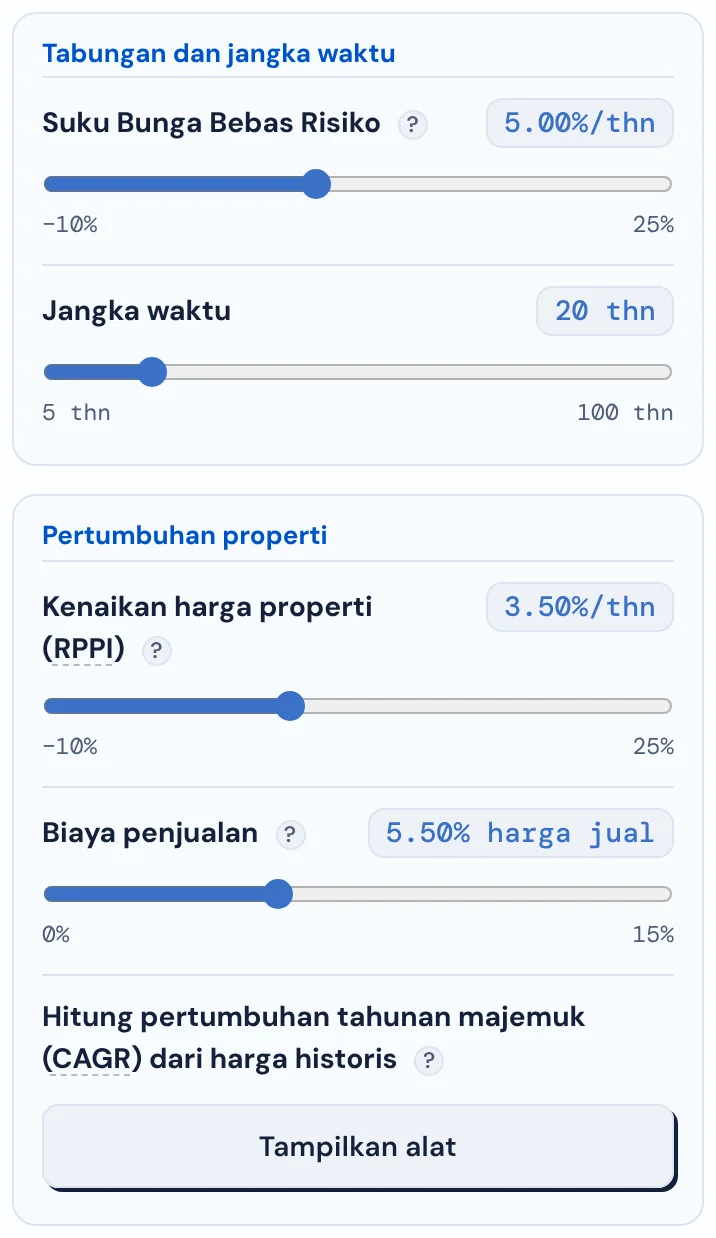
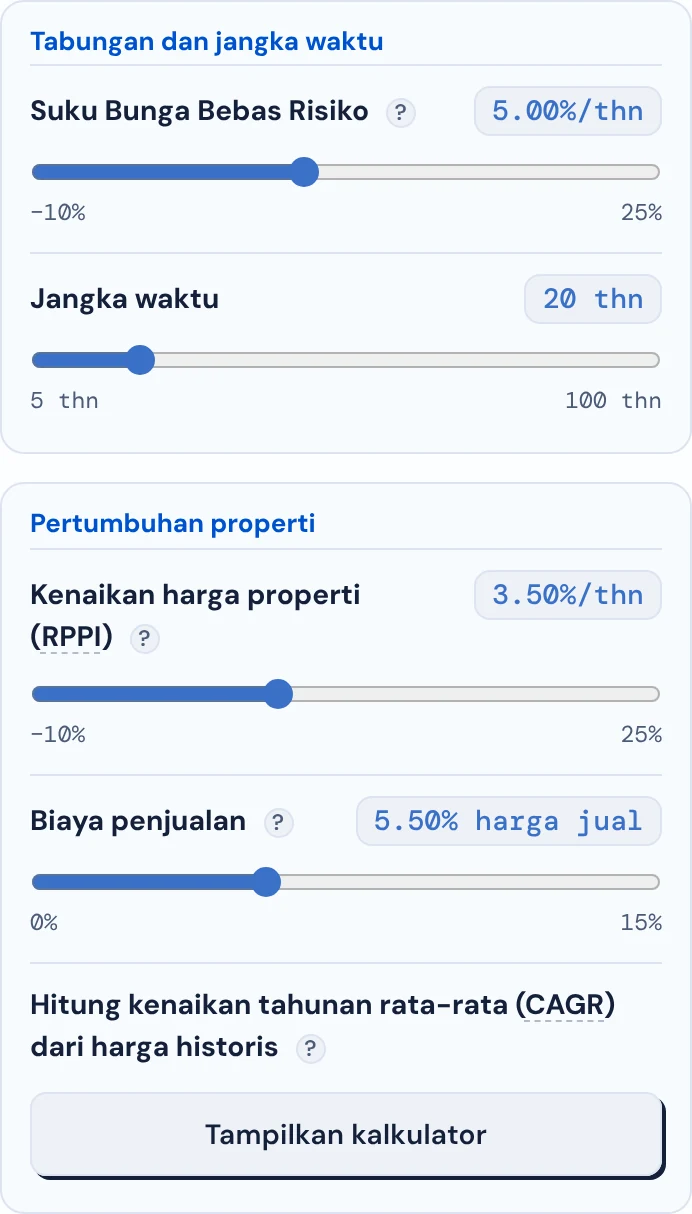
Sewa atau beli rumah: up-to-date Indonesian screenshots, Quick Start naming
Retake the six Indonesian screenshots from the current tool UI (Quick
Start label, Fixed/Floating rate types, reworded labels), fix their
width/height, and say Quick Start instead of Mulai Cepat in alt text
and the footnote.

Claude-Session: https://claude.ai/code/session_01YWcbh4keF1ebWnA5JbQRV3

Changed region(s): [[0.0, 0.3962, 1.0, 0.9753], [0.0, 0.0, 0.9711, 0.3657], [0.698, 0.4572, 0.9104, 0.5181]]

diff --git a/id/_posts/2026-10-17-sewa-atau-beli-rumah.md b/id/_posts/2026-10-17-sewa-atau-beli-rumah.md
@@ -113,12 +113,12 @@ Saya membuat tool ini sebagai ekonom berlatar perbankan, jadi ada tiga pintu mas
 3. Lihat kartu **Modal awal** dan **Anggaran perumahan bulanan**. Kalau gak cocok dengan hidupmu, sesuaikan **Uang Muka (DP)** sampai cocok.
 
 <figure>
-<img src="/assets/img/rvo-basic-quickstart-id.webp" alt="Tool Sewa vs Beli Rumah: Mulai Cepat diisi Perth dan rumah 2 kamar tidur, dengan Harga properti $855,000 dan Uang Muka 20% di tab Rumah" width="780" height="1202" loading="lazy" style="max-width:340px">
+<img src="/assets/img/rvo-basic-quickstart-id.webp" alt="Tool Sewa vs Beli Rumah: Quick Start diisi Perth dan rumah 2 kamar tidur, dengan Harga properti $855,000 dan Uang Muka 20% di tab Rumah" width="760" height="1208" loading="lazy" style="max-width:340px">
 <figcaption>Quick Start: Perth, rumah 2KT. Harga properti jadi titik awal. Biaya sewa ada di tab Sewa.</figcaption>
 </figure>
 
 <figure>
-<img src="/assets/img/rvo-basic-cards-id.webp" alt="Kesimpulan dan empat kartu ringkasan untuk Perth: Perbedaan kekayaan bersih +$850k, Tahun breakeven 5, Modal awal $210k, Anggaran perumahan bulanan $3k sampai $5k" width="1500" height="449" loading="lazy">
+<img src="/assets/img/rvo-basic-cards-id.webp" alt="Kesimpulan dan empat kartu ringkasan untuk Perth: Perbedaan kekayaan bersih +$850k, Tahun breakeven 5, Modal awal $210k, Anggaran perumahan bulanan $3k sampai $5k" width="1500" height="370" loading="lazy">
 <figcaption>Kartu di bawah kesimpulan. Perth butuh sekitar $210 ribu untuk mulai, dan anggaran bulanan $3 ribu sampai $5 ribu selama bertahun-tahun.</figcaption>
 </figure>
 
@@ -131,12 +131,12 @@ Buat yang mau lebih canggih, buka pengaturan yang paling menggeser jawaban.
 - **Suku Bunga Bebas Risiko.** Yang terpenting. Kalau kamu berani mengubahnya, berarti kamu gak lagi menaruh uang di celengan atau tabungan biasa. Anggap ini imbal hasil ke mana uang sisamu pergi: misalnya reksa dana indeks S&P 500 dengan ekspektasi imbal hasil jangka panjang 8%.
 
 <figure>
-<img src="/assets/img/rvo-expert-mortgage-id.webp" alt="Kelompok KPR mode Rinci untuk Jakarta: jangka waktu 20 tahun, bunga tetap 8,5% tahun 1 sampai 5, lalu mengambang 11% sampai 13%" width="716" height="1496" loading="lazy" style="max-width:320px">
+<img src="/assets/img/rvo-expert-mortgage-id.webp" alt="Kelompok KPR mode Rinci untuk Jakarta: jangka waktu 20 tahun, bunga fixed 8,5% tahun 1 sampai 5, lalu floating 11% sampai 13%" width="692" height="1472" loading="lazy" style="max-width:320px">
 <figcaption>Jadwal promo-lalu-floating untuk Jakarta, dimasukkan sebagai dua periode.</figcaption>
 </figure>
 
 <figure>
-<img src="/assets/img/rvo-expert-assumptions-id.webp" alt="Slider Tabungan dan jangka waktu (Suku Bunga Bebas Risiko, Jangka waktu) dan Pertumbuhan properti (kenaikan harga, biaya penjualan) untuk Jakarta" width="716" height="1198" loading="lazy" style="max-width:320px">
+<img src="/assets/img/rvo-expert-assumptions-id.webp" alt="Slider Tabungan dan jangka waktu (Suku Bunga Bebas Risiko, Jangka waktu) dan Pertumbuhan properti (kenaikan harga, biaya penjualan) untuk Jakarta" width="692" height="1214" loading="lazy" style="max-width:320px">
 <figcaption>Suku Bunga Bebas Risiko, jangka waktu, kenaikan harga, dan biaya penjualan, semuanya di tab Asumsi.</figcaption>
 </figure>
 
@@ -163,7 +163,7 @@ Suatu saat satu skenario gak cukup. Kamu ingin menaruh banyak hal berdampingan. 
 - **Suku bunga dan skema pembiayaan.** Rumah yang sama, pinjaman yang beda.
 
 <figure>
-<img src="/assets/img/rvo-sens-cities-top-id.webp" alt="Sensitivity Analysis tool dengan rumah 2 kamar tidur Perth dan Jakarta berdampingan: jangka waktu dan suku bunga bebas risiko bersama, multi-mata uang dan kurs" width="1500" height="659" loading="lazy">
+<img src="/assets/img/rvo-sens-cities-top-id.webp" alt="Sensitivity Analysis tool dengan rumah 2 kamar tidur Perth dan Jakarta berdampingan: jangka waktu dan suku bunga bebas risiko bersama, multi-mata uang dan kurs" width="1500" height="518" loading="lazy">
 <figcaption>Perth dan Jakarta berdampingan, dengan horizon 20 tahun yang sama.</figcaption>
 </figure>
 
@@ -177,7 +177,7 @@ Bacanya begini: bandingkan garis penuh dengan putus-putus *dalam satu warna*, bu
 Sekarang soal pembiayaan. Empat cara membeli rumah Jakarta yang sama, melawan satu garis sewa. Biru adalah KPR bertahap (8,5% selama 5 tahun, lalu floating). Oranye 8,5% datar selama 20 tahun. Hijau promo 3,81% selama 5 tahun, lalu floating. Merah muda tunai. Garis putus-putus adalah sewa.
 
 <figure>
-<img src="/assets/img/rvo-sens-financing-inputs-id.webp" alt="Empat skenario pembiayaan Jakarta: KPR bertahap, 8,5% tetap penuh, promo 3,81% lalu mengambang, dan beli tunai 100%" width="1500" height="428" loading="lazy">
+<img src="/assets/img/rvo-sens-financing-inputs-id.webp" alt="Empat skenario pembiayaan Jakarta: KPR bertahap, 8,5% tetap penuh, promo 3,81% lalu floating, dan beli tunai 100%" width="1500" height="471" loading="lazy">
 <figcaption>Empat skema pembiayaan untuk satu rumah di Jakarta, disusun sebagai empat kolom.</figcaption>
 </figure>
 
@@ -209,7 +209,7 @@ Jangan tanya "sewa atau beli, mana yang lebih pintar?" Tanyakan "rumah ini mengh
 
 *Tulisan ini informasi umum, bukan nasihat keuangan.*
 
-[^reiwa]: REIWA, profil kawasan Perth (median Landgate/REIWA, 12 bulan sampai September 2026), diringkas di [halaman asumsi Mulai Cepat](https://tool.adjiebrotots.com/rentvsownhouse/quickstart-assumptions/): sekitar 17% untuk rumah tapak dan 22% untuk unit.
+[^reiwa]: REIWA, profil kawasan Perth (median Landgate/REIWA, 12 bulan sampai September 2026), diringkas di [halaman asumsi Quick Start](https://tool.adjiebrotots.com/rentvsownhouse/quickstart-assumptions/): sekitar 17% untuk rumah tapak dan 22% untuk unit.
 [^abs]: Australian Bureau of Statistics, [Australia's population up 1.5% in December 2025](https://www.abs.gov.au/media-centre/media-releases/australias-population-15-december-2025): +412.500 orang, migrasi bersih luar negeri 301.000, pertambahan alami 111.500, Australia Barat tercepat 2,2%.
 [^bps]: BPS, [siaran pers SUPAS 2025](https://www.bps.go.id/en/pressrelease/2026/05/05/2645/supas-2025--angka-kelahiran-total--tfr--sebesar-2-13---angka-kematian-bayi--imr--sebesar-14-12--dan-persentase-lansia-mencapai-11-97-persen-.html), 5 Mei 2026: angka kelahiran total 2,13.
 [^idprice]: Colliers, lewat [Kompas, April 2026](https://www.kompas.com/properti/read/2026/04/13/210000021/kredit-apartemen-makin-diminati-konsumen-tinggalkan-tren-investasi): harga rata-rata apartemen Jakarta Rp 27,7 juta per m² (2014) menjadi Rp 36,2 juta (2026). Survei properti residensial Bank Indonesia mencatat indeks rumah Jabodebek naik sekitar 1,2% per tahun sejak 2018 ([BI, Triwulan II 2026](https://www.bi.go.id/id/publikasi/laporan/Documents/SHPR_Tw_II_2026.pdf)). Stok belum terjual: [halaman asumsi](https://tool.adjiebrotots.com/rentvsownhouse/quickstart-assumptions/).
